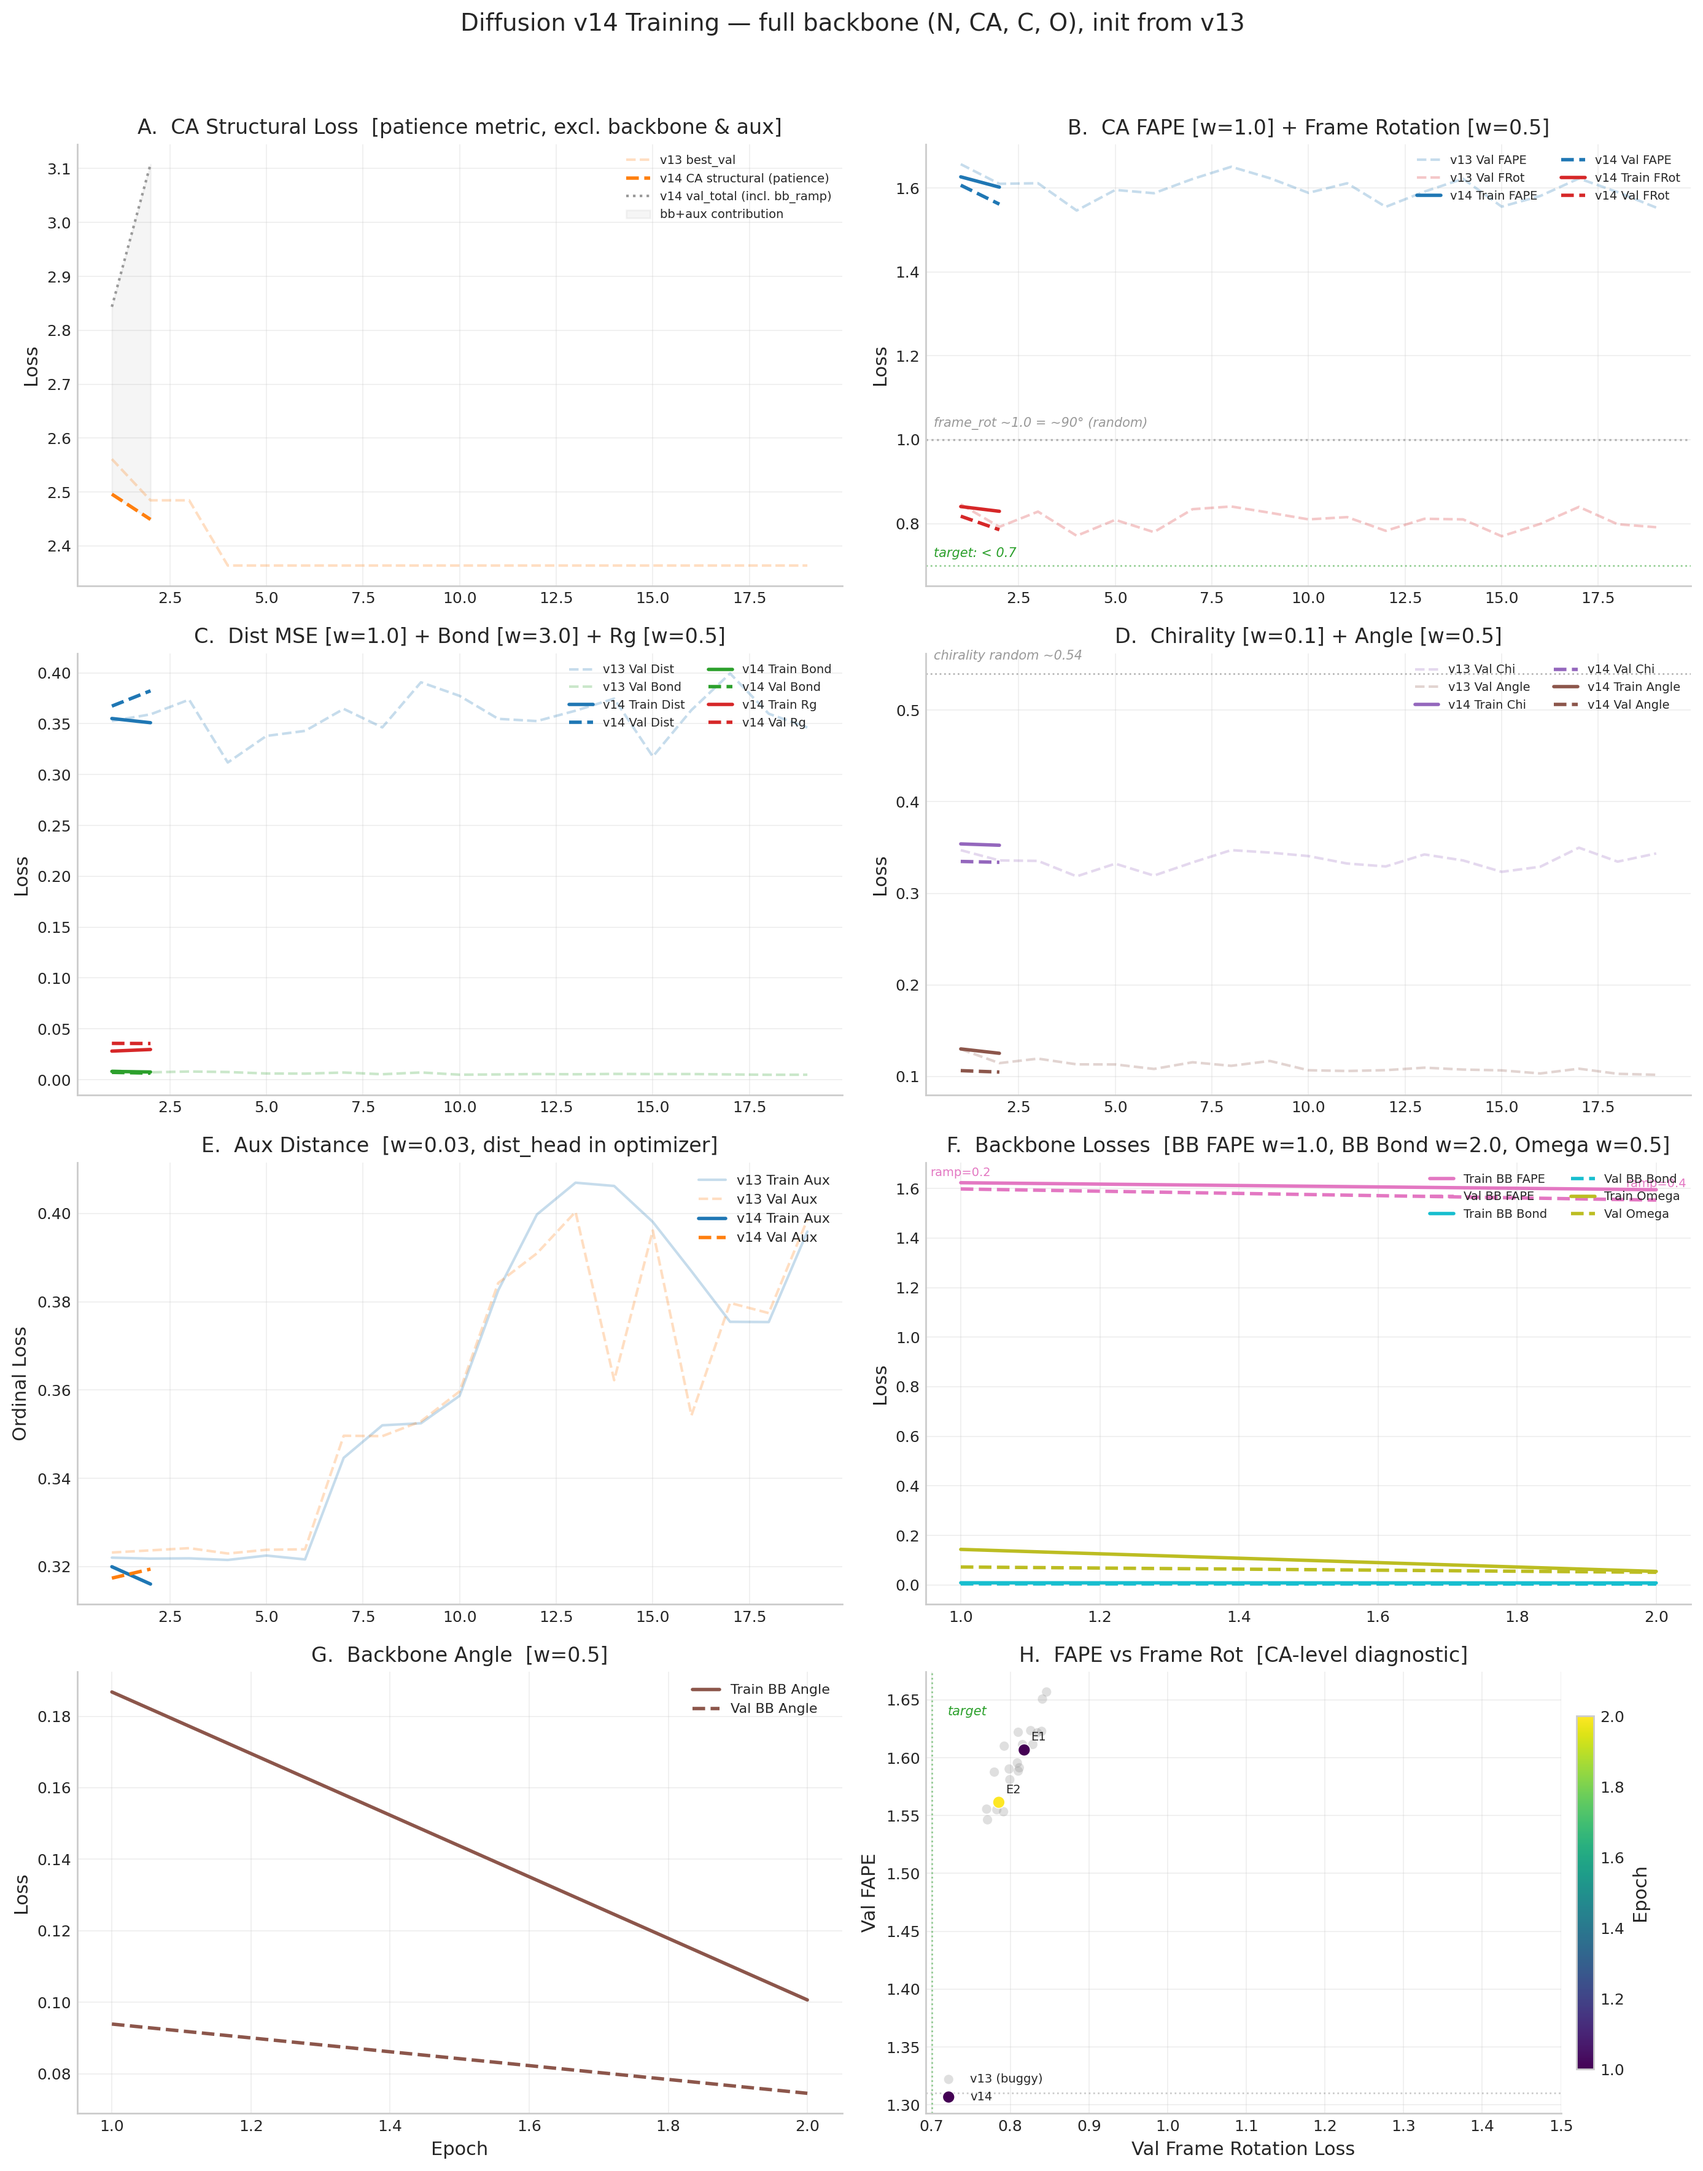
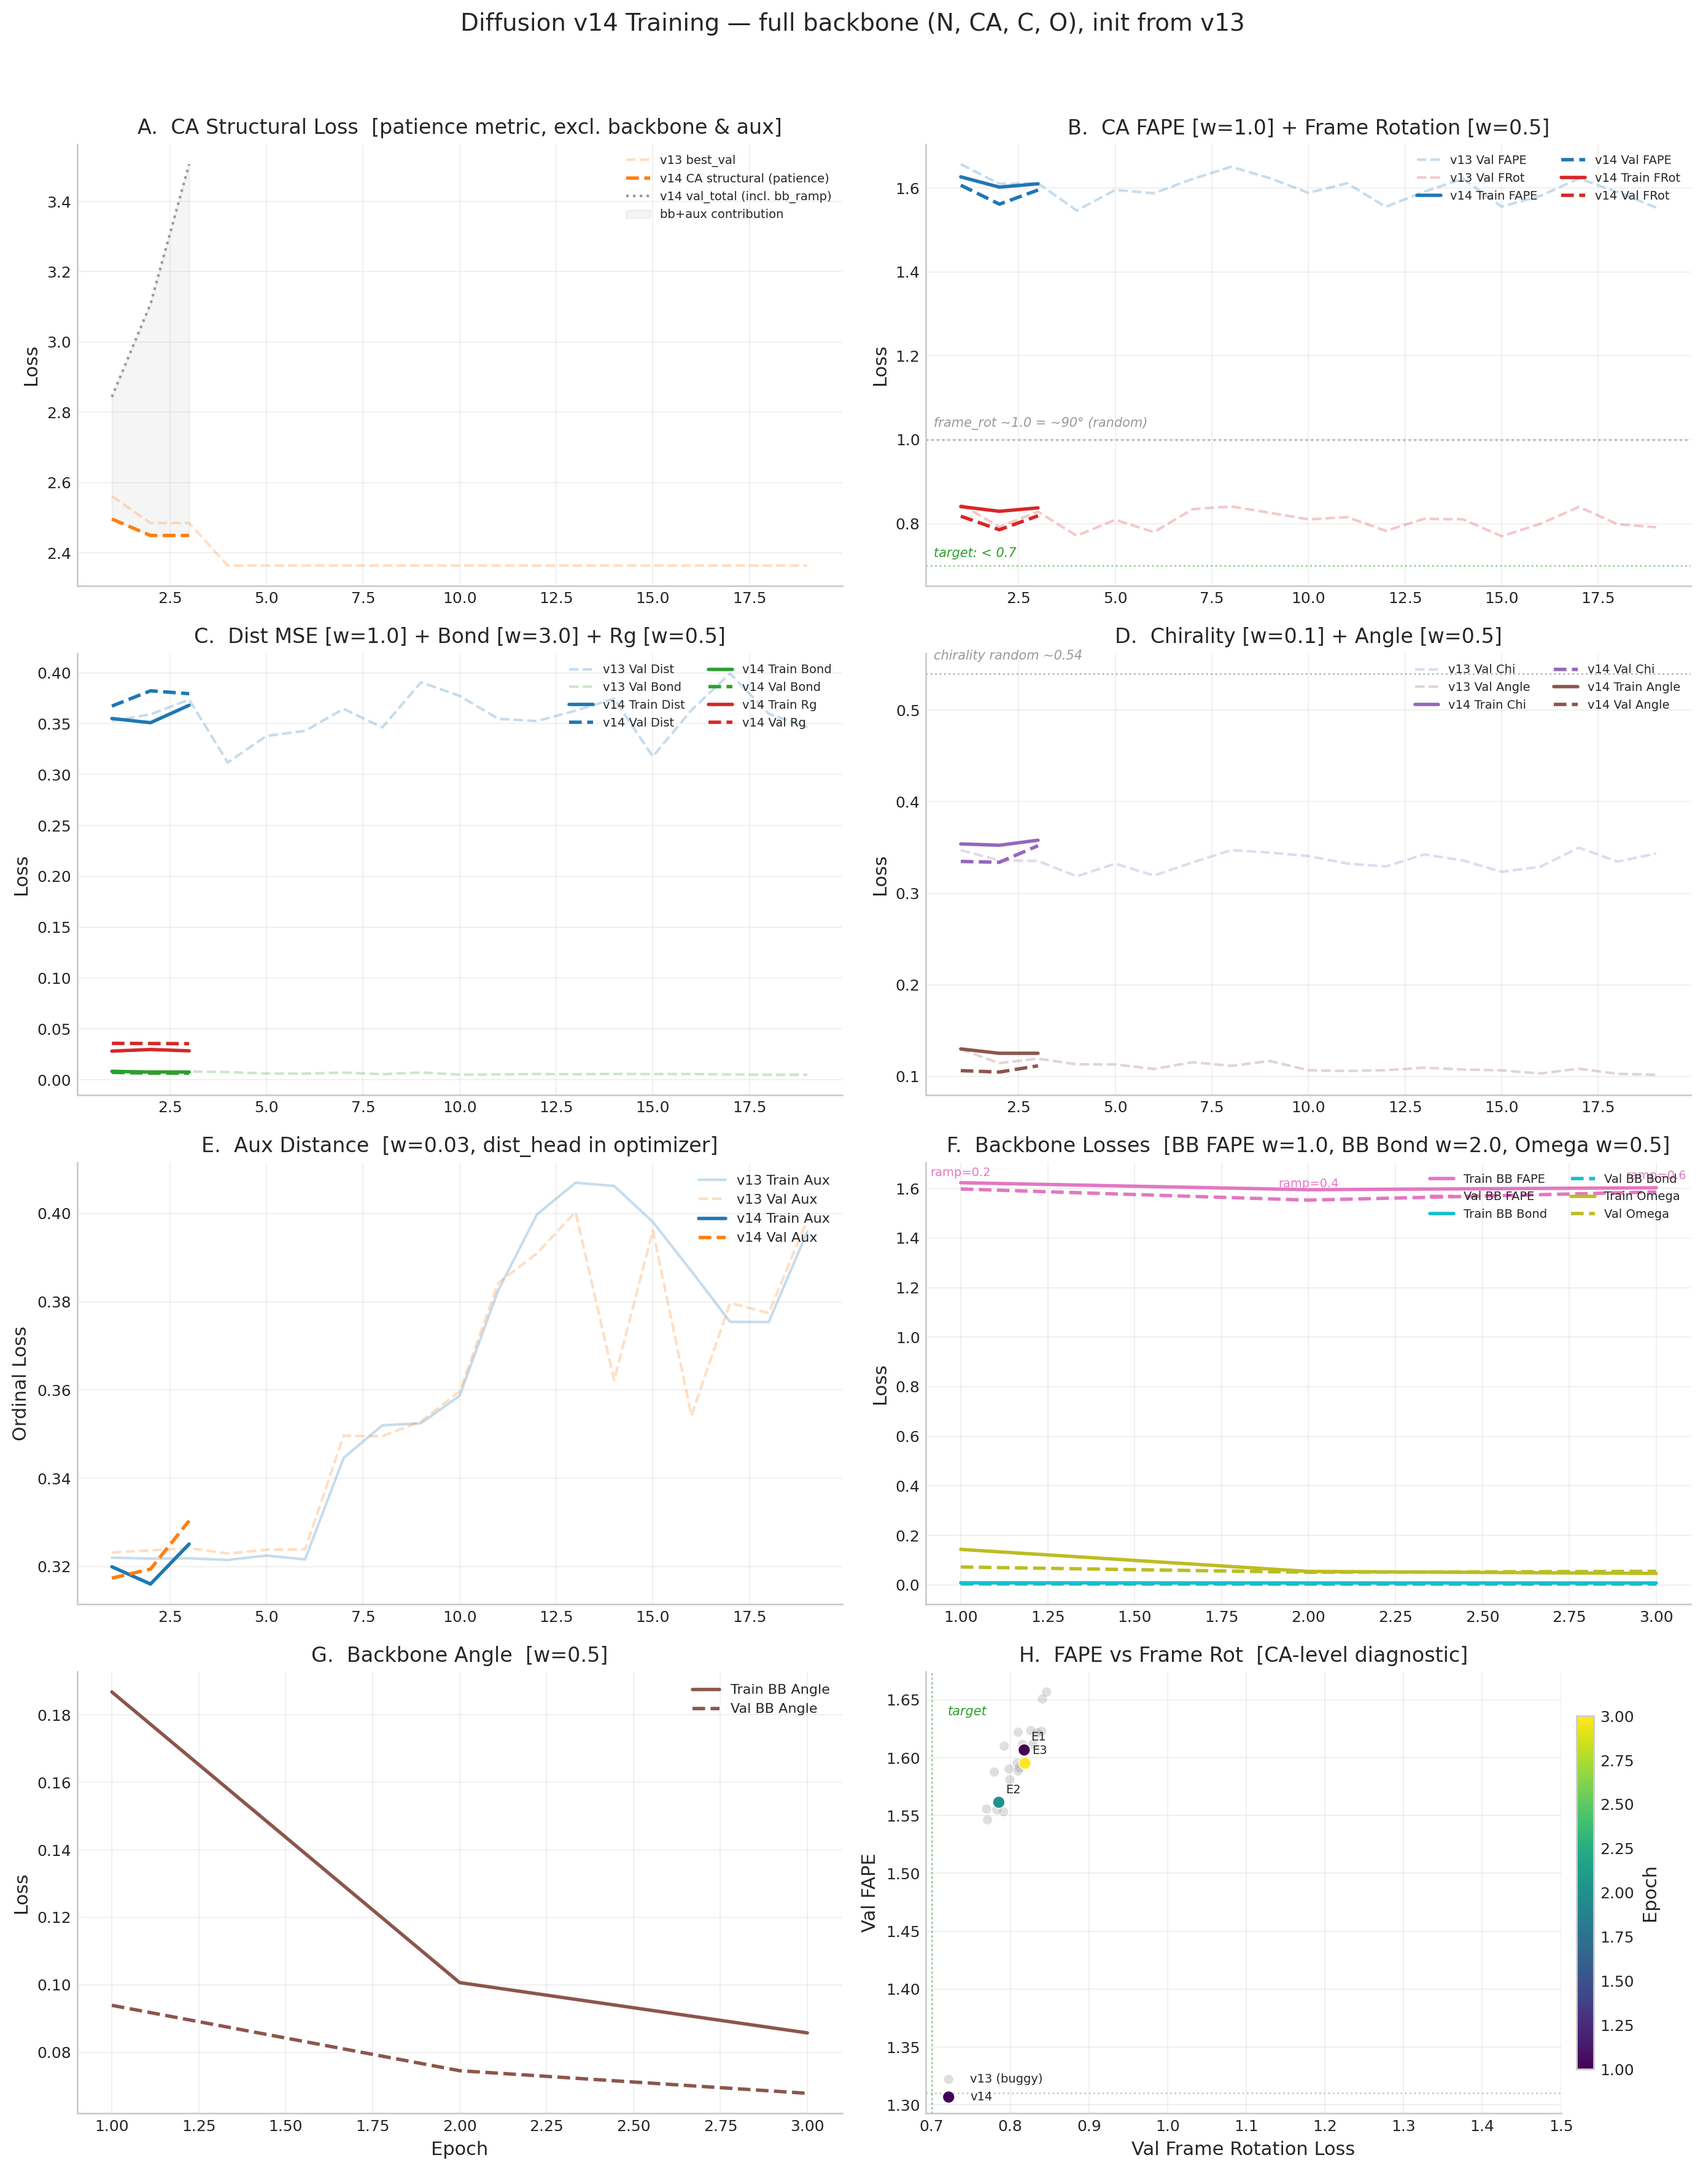
v13b E2 (structural 3.933), v14 E3 (pat 1), updated plots

diff --git a/minifold.html b/minifold.html
@@ -391,6 +391,20 @@
               <td>0.103</td>
               <td><span class="tag tag-best">NEW BEST</span></td>
             </tr>
+            <tr>
+              <td>2</td>
+              <td>3.933</td>
+              <td>2.044</td>
+              <td>1.147</td>
+              <td>0.500</td>
+              <td>0.025</td>
+              <td>0.437</td>
+              <td>0.538</td>
+              <td>0.303</td>
+              <td>1.150</td>
+              <td>&mdash;</td>
+              <td><span class="tag tag-best">NEW BEST</span></td>
+            </tr>
           </tbody>
         </table>
       </div>
@@ -573,6 +587,18 @@
               <td>0.051</td>
               <td>&mdash;</td>
               <td><span class="tag tag-best">NEW BEST</span></td>
+            </tr>
+            <tr>
+              <td>3</td>
+              <td>2.449</td>
+              <td>1.595</td>
+              <td>0.819</td>
+              <td>0.380</td>
+              <td>1.586</td>
+              <td>0.004</td>
+              <td>0.055</td>
+              <td>&mdash;</td>
+              <td><span class="tag tag-pat">pat 1</span></td>
             </tr>
           </tbody>
         </table>
